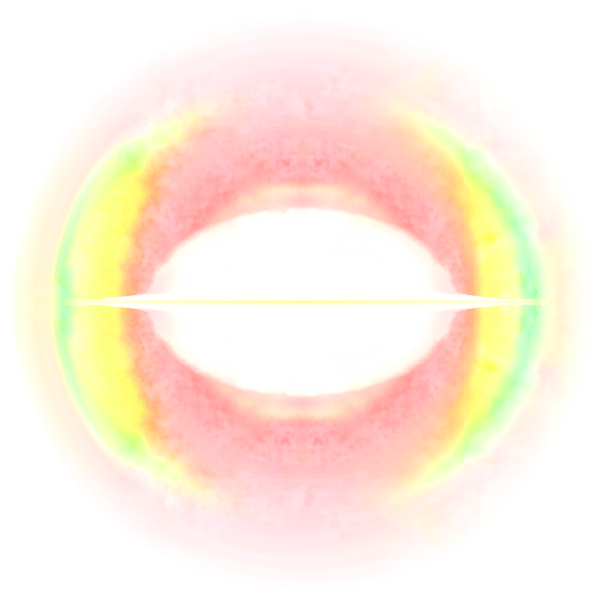
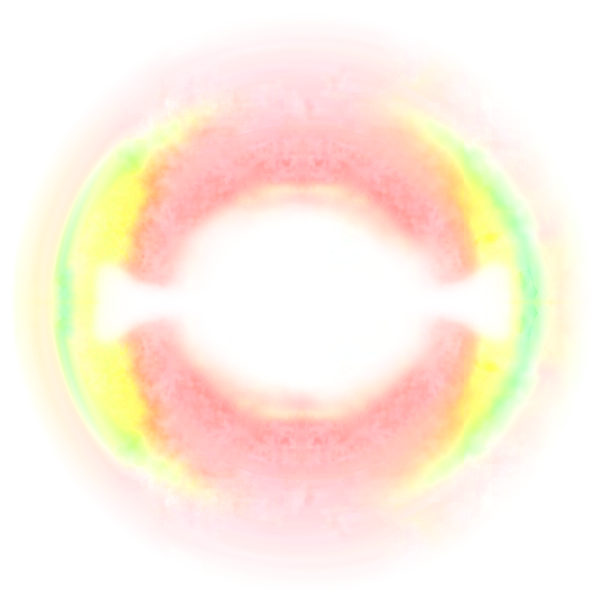
Efekt 10 kare 2: düzensiz ve yumuşak kenarlı beyaz, parantezle birleşimde kalın bant, sarı çizgi beyazın içinde görünmez
Claude-Session: https://claude.ai/code/session_01E9c1WiJsMc9gXSJZ9D4z6g

diff --git a/arayuz/araclar/efekt10/kare_02.py b/arayuz/araclar/efekt10/kare_02.py
@@ -18,18 +18,32 @@ yy,xx=np.mgrid[0:H,0:W].astype(np.float32); dx,dy=xx-cx,yy-cy
 #    s=1 kenar; renk kare_01'in kendi radyal gecisinden (beyaz -> sampanya -> seftali) ayni aci yonunde orneklenir.
 EA,EB,BK,BU=135.0,88.0,15.0,215.0
 el=np.hypot(dx/EA,dy/EB)
-incel=np.clip(1-np.abs(dx)/BU,0.05,1)**0.6                         # bant uca dogru incelir
-bt=np.maximum(np.abs(dy)/(BK*incel),np.abs(dx)/BU)
+# bant: ortada ince, parantezle birlestigi yerde (|dx| ~ 175-215) kalinlasir, sonra yumusakca biter
+ax=np.abs(dx)
+kalin=1+1.6*np.exp(-((ax-195)/28)**2)
+bt=np.maximum(np.abs(dy)/(BK*kalin),ax/(BU+12))+np.clip((ax-205)/25,0,None)   # parantez otesine tasmaz
 k=0.12; s_=-k*np.log(np.exp(-el/k)+np.exp(-bt/k))                 # yumusak min (birlesim)
+# duzensizlik: kenara organik dalga + ince puruz (acisal + 2B gurultu)
+rg=np.random.default_rng(12)
+def gur(sc,seed):
+    z=np.random.default_rng(seed).standard_normal((H//sc+3,W//sc+3)).astype(np.float32)
+    z=ndimage.zoom(ndimage.gaussian_filter(z,1.0),sc,order=3)[:H,:W]; return z/(z.std()+1e-6)
+th0=np.arctan2(dy,dx); na=48
+za=ndimage.gaussian_filter1d(rg.standard_normal(na).astype(np.float32),1.2,mode="wrap"); za/=za.std()
+ia=((th0+np.pi)/(2*np.pi)*na); i0=np.floor(ia).astype(int)%na; fa=ia-np.floor(ia)
+dalga=za[i0]*(1-fa)+za[(i0+1)%na]*fa
+s_=s_*(1+0.045*dalga+0.03*gur(14,3)+0.012*gur(5,4))
 th=np.arctan2(dy,dx); R0=80.0
 sx=cx+np.cos(th)*R0*s_; sy=cy+np.sin(th)*R0*s_
 G=np.stack([ndimage.map_coordinates(L[...,c],[sy,sx],order=1) for c in range(3)],-1)
-w=np.clip((1.32-s_)/0.30,0,1); w=(w*w*(3-2*w))[...,None]                 # yumusak kenar
-T=np.maximum(L,G*w)
+w=np.clip((1.45-s_)/0.75,0,1); w=w*w*(3-2*w); w=ndimage.gaussian_filter(w,6.0)[...,None]      # genis, yumusak kenar
+G=np.stack([ndimage.gaussian_filter(G[...,c],2.0) for c in range(3)],-1)
+T=L*(1-w)+np.maximum(L,G)*w
 # 2) yatay sari cizgi, %50 opaklik
 uz=W*0.47
 boy=np.clip(1-np.abs(dx)/uz,0,1)**0.8
-cizgi=(np.exp(-(dy/1.6)**2)+0.35*np.exp(-(dy/5.0)**2))*boy*CIZGI_OPAK
+beyaz=np.clip((T.min(2)-0.80)/0.15,0,1); beyaz=ndimage.gaussian_filter(beyaz,2.0)   # titanyum beyaz bolge
+cizgi=(np.exp(-(dy/1.6)**2)+0.35*np.exp(-(dy/5.0)**2))*boy*CIZGI_OPAK*(1-beyaz)        # beyazin icinde gorunmez
 T=T*(1-cizgi[...,None])+SARI*cizgi[...,None]+T*cizgi[...,None]*0  # cizgi alttakinin uzerine %50 opak
 T=np.maximum(T,np.clip(SARI*cizgi[...,None],0,1))
 al=T.max(2); rgb=np.where(al[...,None]>1e-4,T/np.maximum(al,1e-4)[...,None],0)
